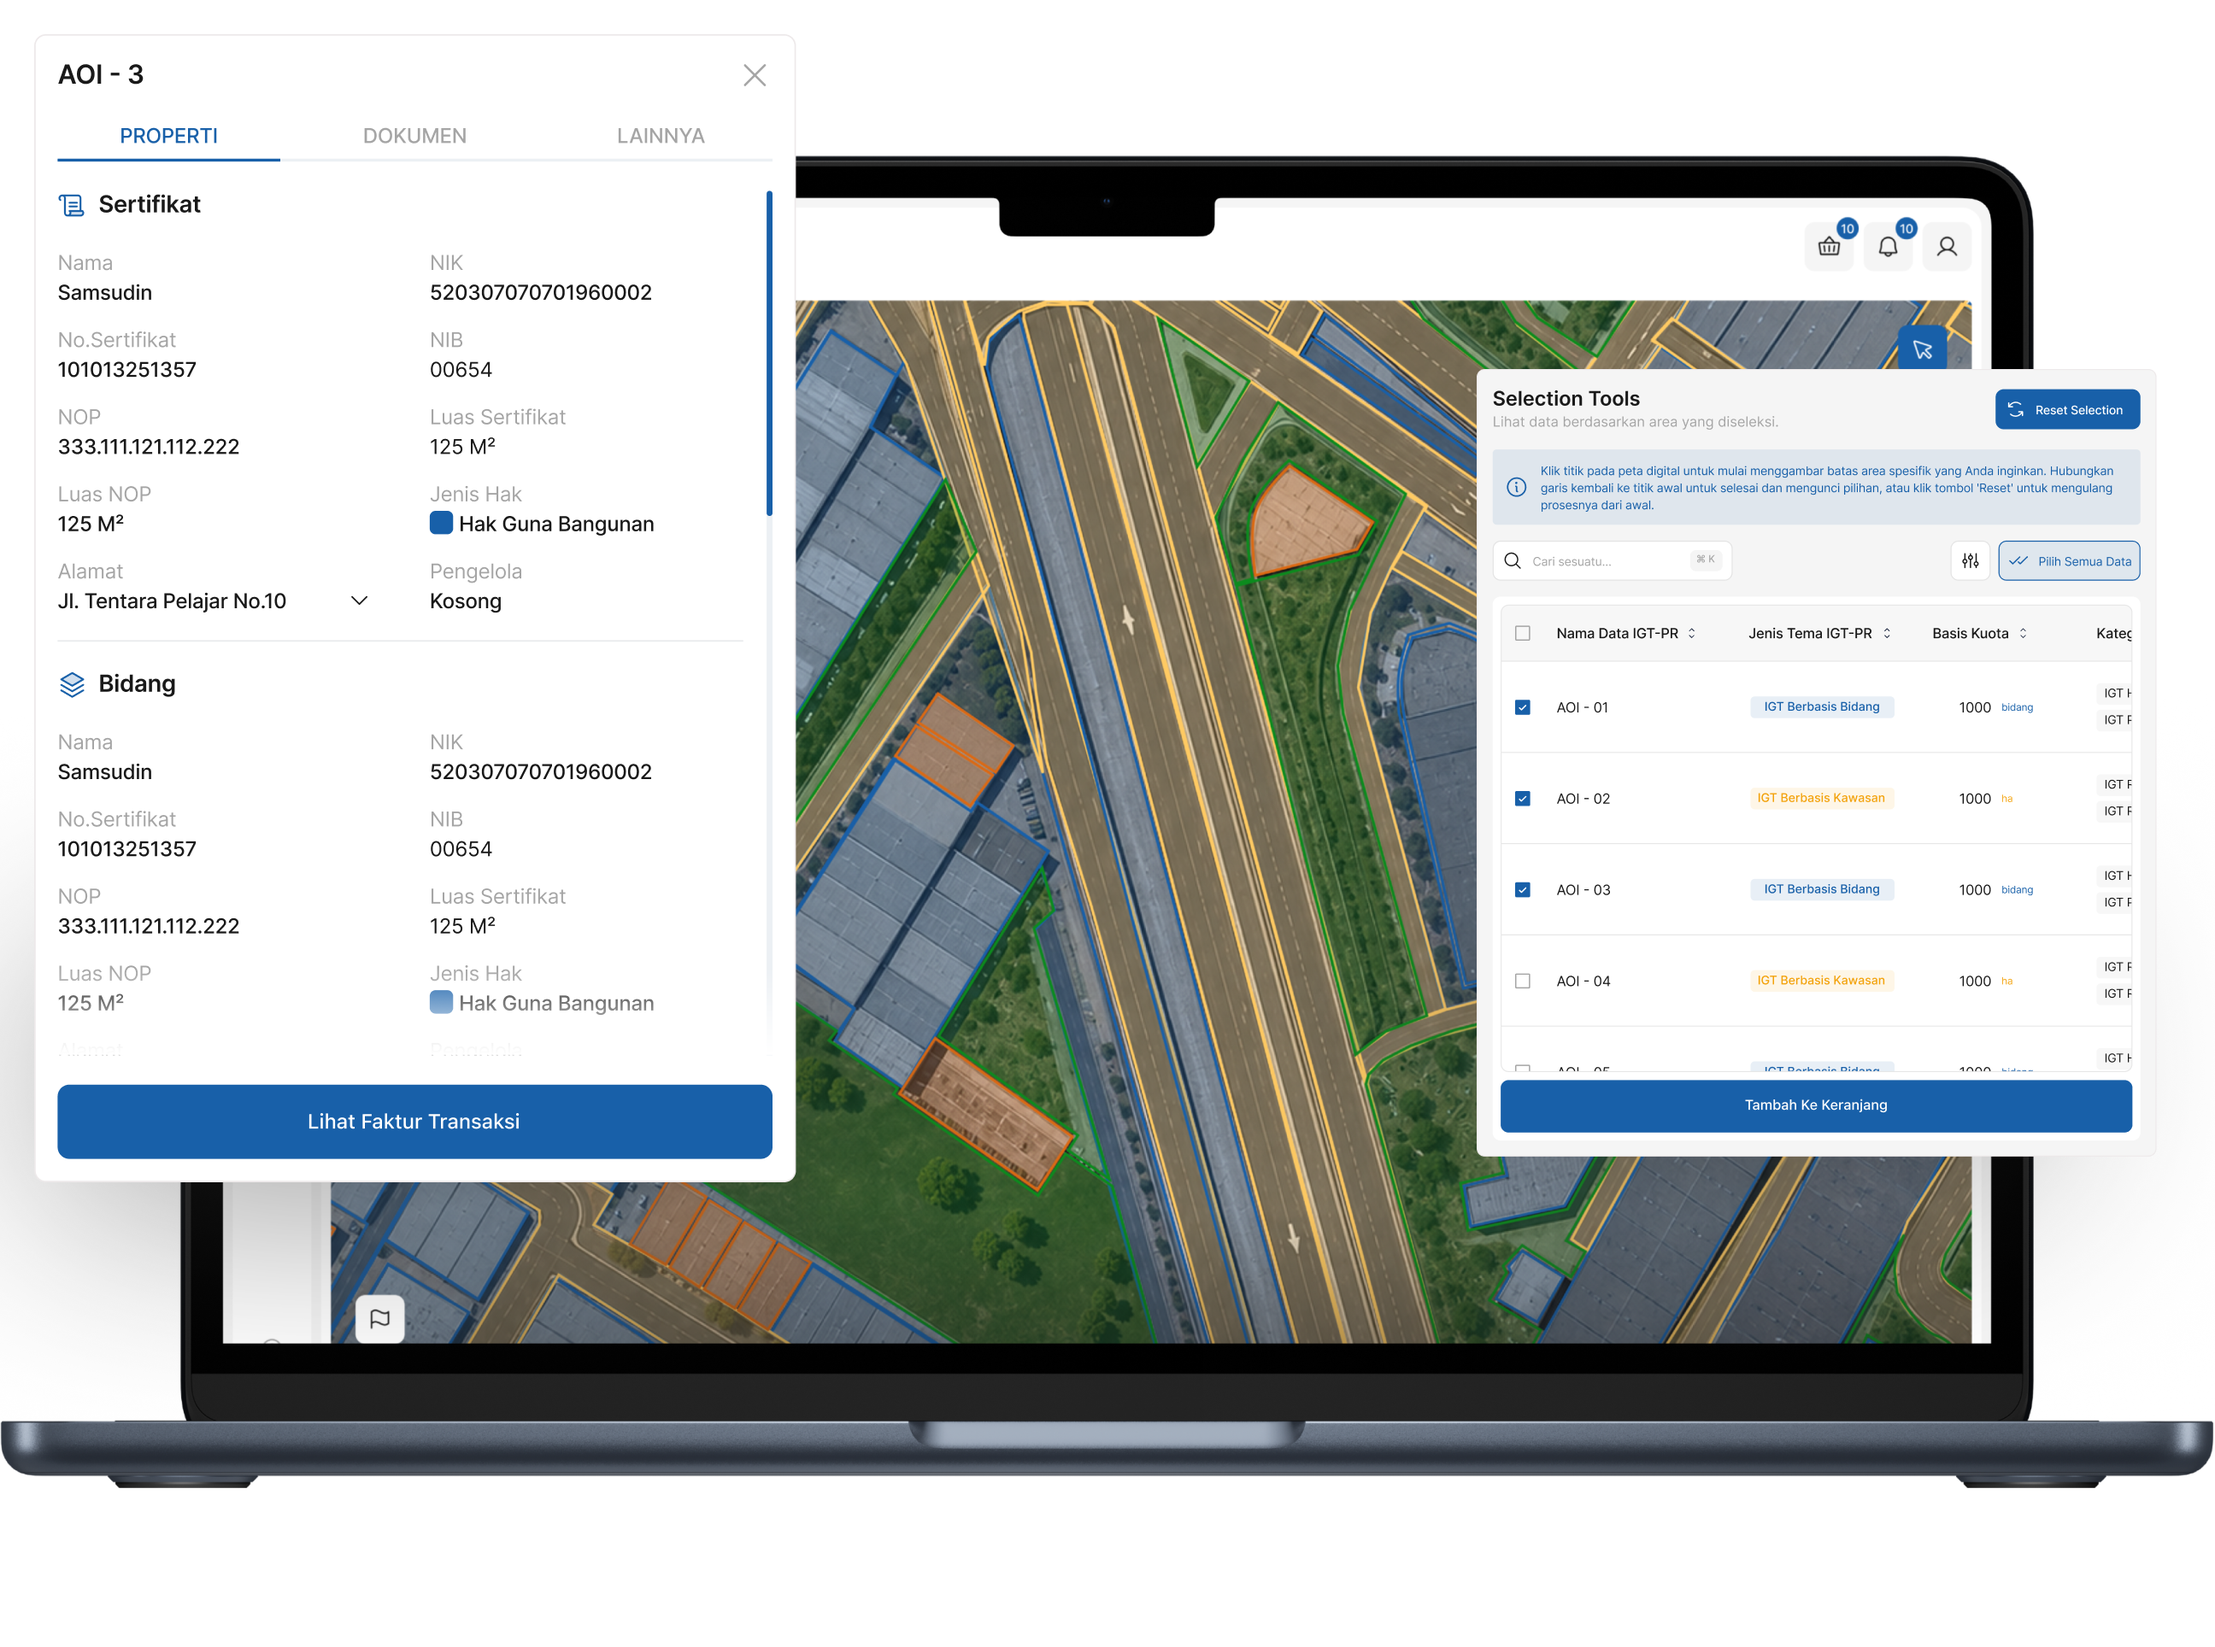
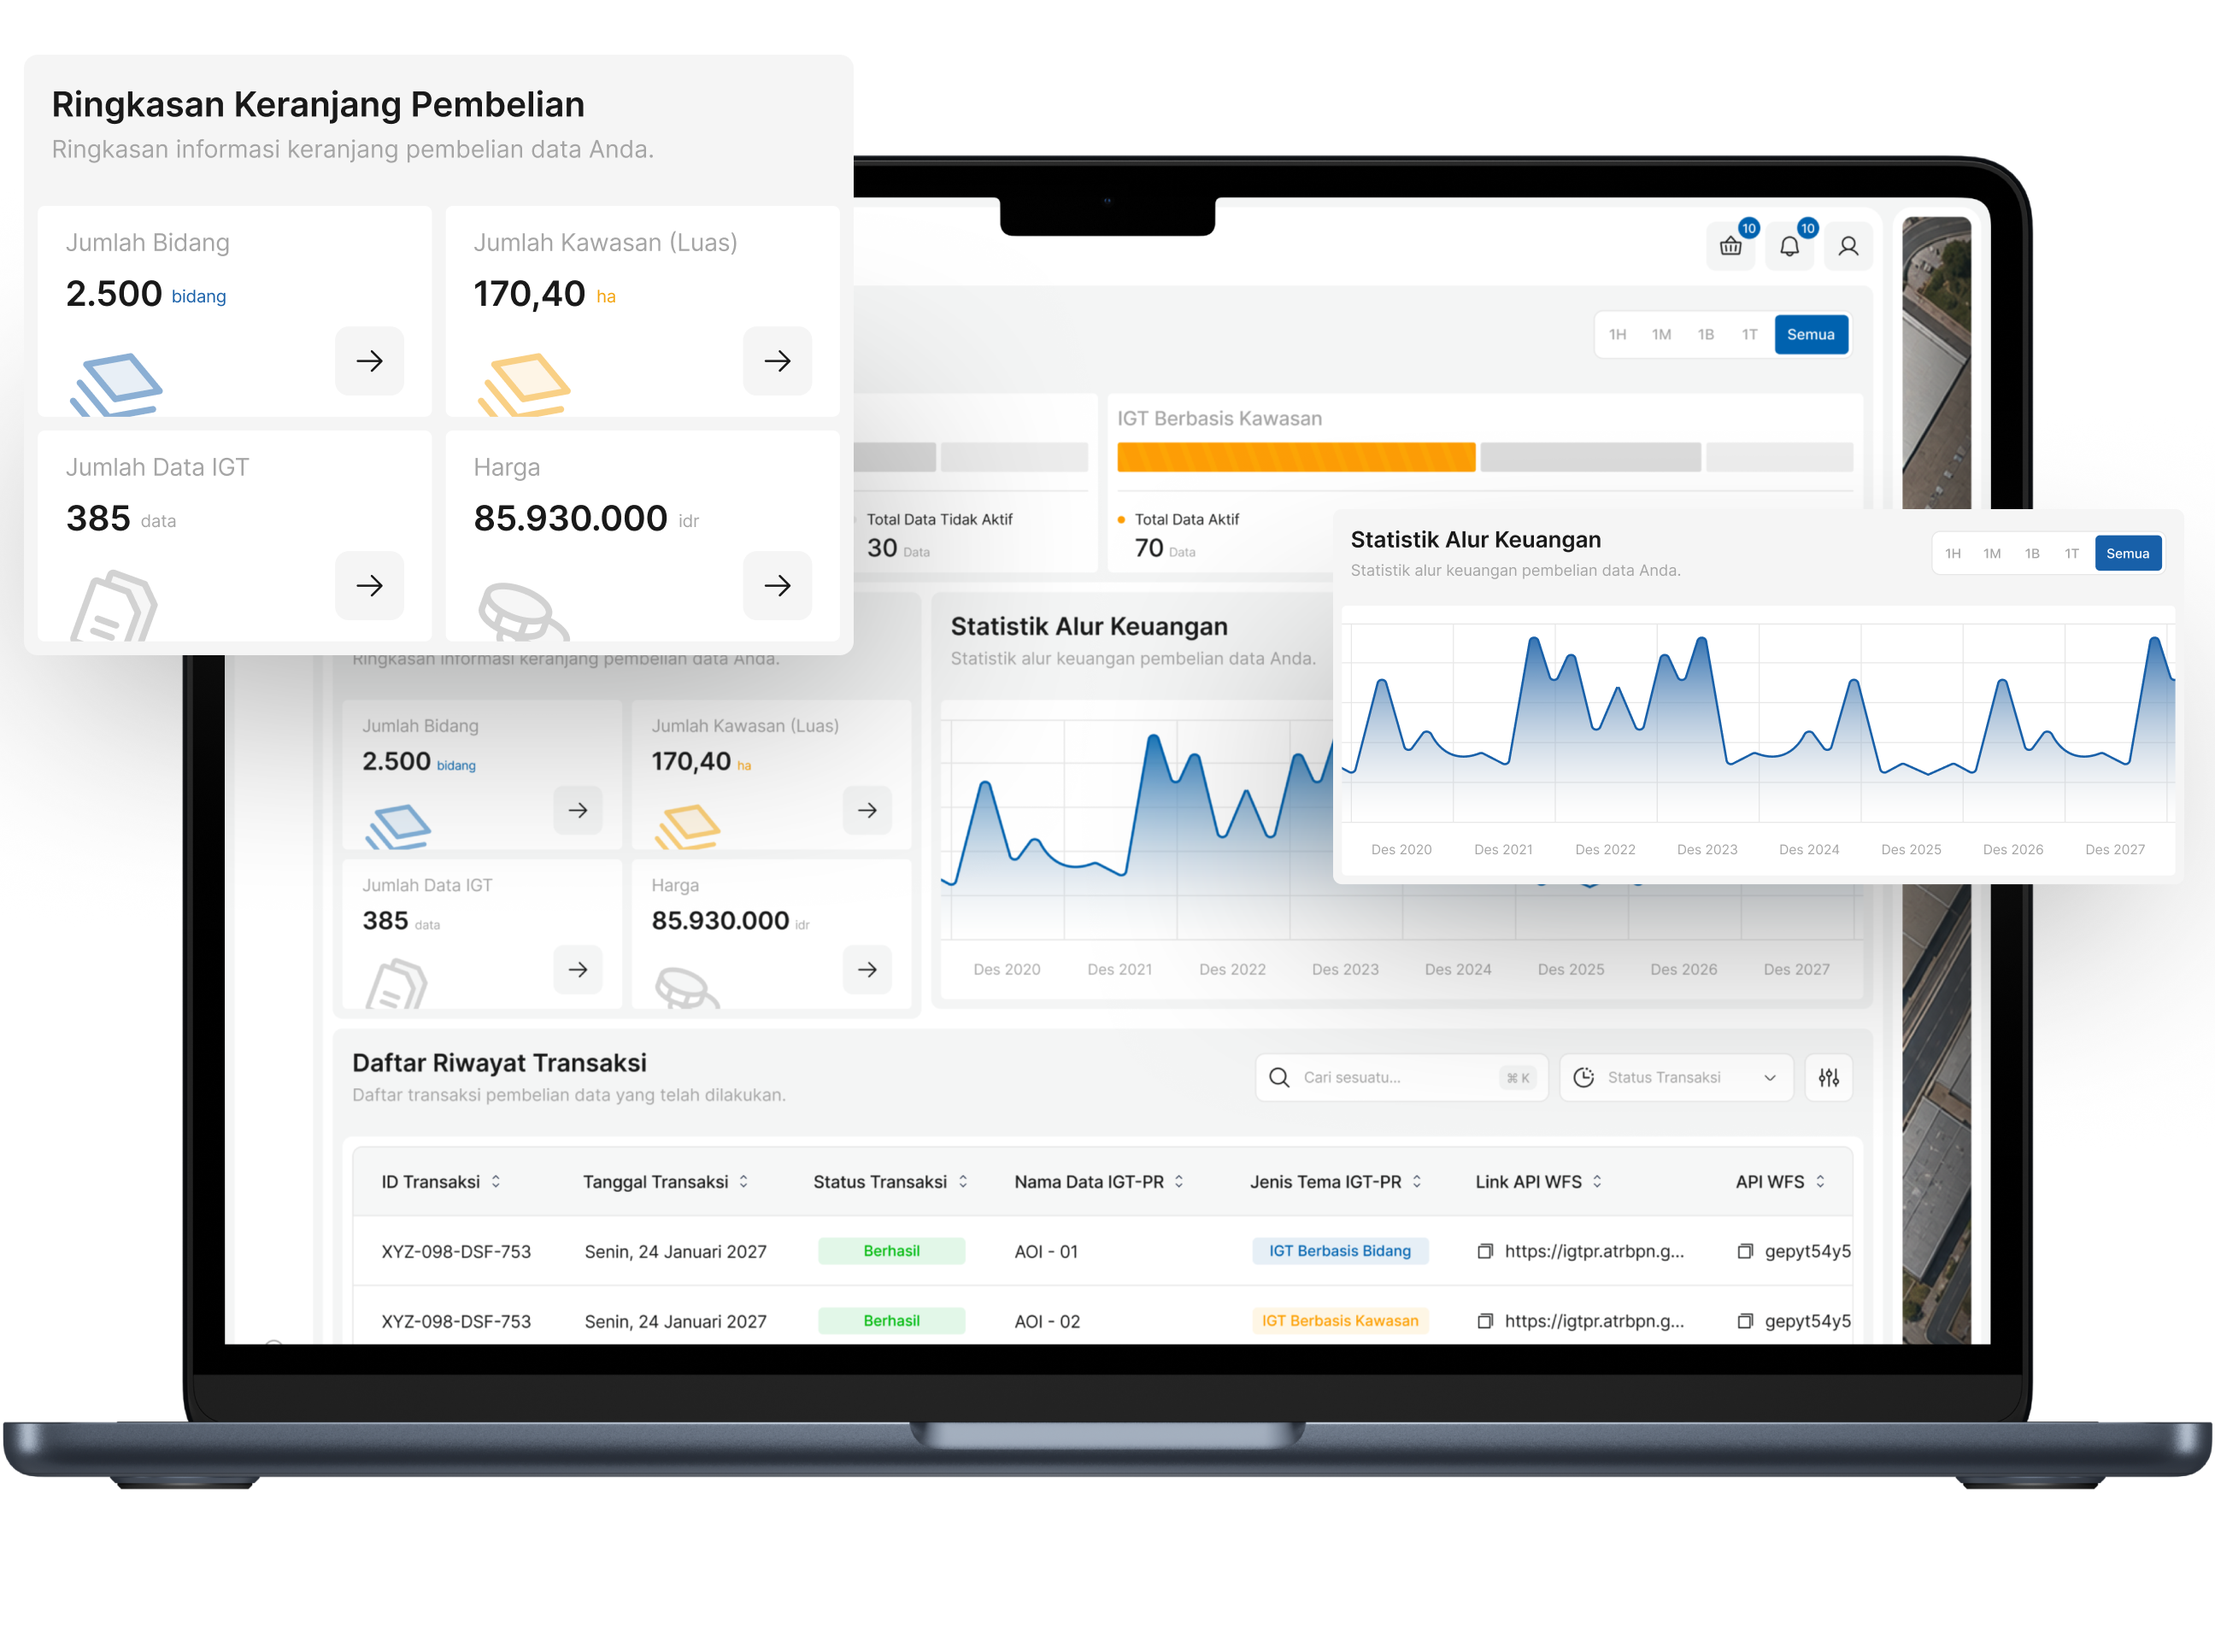
feat: replace static feature item with fully functional carousel component

diff --git a/src/features/branding/components/ui/features-carousel.tsx b/src/features/branding/components/ui/features-carousel.tsx
@@ -3,19 +3,43 @@
 "use client";
 
 import { IgtLogo } from "@/design-system/components/branding/ui/igt-logo";
-import { VStack } from "@/design-system/components/layout/ui/flex-box";
+import { Carousel } from "@/design-system/components/disclosure/ui/carousel";
+import { AppIcon } from "@/design-system/components/icon/ui/app-icon";
+import { Box } from "@/design-system/components/layout/ui/box";
+import { HStack, VStack } from "@/design-system/components/layout/ui/flex-box";
 import { Image } from "@/design-system/components/media/ui/image";
 import { P } from "@/design-system/components/typography/ui/p";
 import { useThemeStore } from "@/design-system/stores/theme-store";
 import type { FeaturesCarouselProps } from "@/features/branding/types/branding.type";
 import { PATH_CONFIG } from "@/shared/constants/paths";
+import { ArrowLeftIcon, ArrowRightIcon } from "lucide-react";
 
-const FEATURE_ITEM = {
-  image: `${PATH_CONFIG.images}/signin_carousel/1.png`,
-  title: "Layanan Jasa Akses IGT",
-  description:
-    "Layanan Jasa Akses IGT merupakan layanan penyediaan akses terhadap Informasi Geospasial Tematik (IGT) Pertanahan dan Ruang secara digital melalui mekanisme integrasi sistem berupa Web Map Service (WMS) kepada Pelaksana Kerja Sama dengan melakukan pengayaan data dengan mengintegrasikan IGT untuk menghasilkan informasi geospasial baru sesuai dengan kebutuhan pemanfaatan dan ketentuan yang berlaku.",
-};
+const CAROUSEL_ITEMS_LIST = [
+  {
+    image: `${PATH_CONFIG.images}/signin_carousel/1.png`,
+    title: "Layanan Jasa Akses IGT",
+    description:
+      "Layanan Jasa Akses IGT merupakan layanan penyediaan akses terhadap Informasi Geospasial Tematik (IGT) Pertanahan dan Ruang secara digital melalui mekanisme integrasi sistem berupa Web Map Service (WMS) kepada Pelaksana Kerja Sama dengan melakukan pengayaan data dengan mengintegrasikan IGT untuk menghasilkan informasi geospasial baru sesuai dengan kebutuhan pemanfaatan dan ketentuan yang berlaku.",
+  },
+  {
+    image: `${PATH_CONFIG.images}/signin_carousel/2.png`,
+    title: "Beranda Pengguna",
+    description:
+      "Dashboard yang menyajikan ringkasan status data IGT, informasi keranjang pembelian, statistik alur keuangan, dan riwayat transaksi dalam satu tampilan terintegrasi untuk memudahkan pemantauan aktivitas pengguna.",
+  },
+  {
+    image: `${PATH_CONFIG.images}/signin_carousel/3.png`,
+    title: "Peta Interaktif",
+    description:
+      "Peta Interaktif memungkinkan pengguna menyeleksi data IGT-PR berdasarkan area pada peta dan menambahkan data terpilih ke keranjang pembelian.",
+  },
+  {
+    image: `${PATH_CONFIG.images}/signin_carousel/4.png`,
+    title: "Tiket Laporan",
+    description:
+      "Tiket Laporan memudahkan pengguna untuk mengirim laporan, melampirkan dokumen pendukung, serta memantau proses penanganan dan tanggapan dari administrator dalam satu platform terintegrasi.",
+  },
+];
 
 export const FeaturesCarousel = (props: FeaturesCarouselProps) => {
   // Props
@@ -31,43 +55,105 @@ export const FeaturesCarousel = (props: FeaturesCarouselProps) => {
       bg={`${theme.colorPalette}.solid`}
       {...restProps}
     >
-      <VStack
-        pos={"relative"}
-        w={"full"}
+      <Carousel.Root
+        defaultPage={0}
+        loop
+        autoplay={{
+          delay: 6000,
+        }}
+        slideCount={CAROUSEL_ITEMS_LIST.length}
         flex={1}
-        rounded={theme.radii.container}
-        bg={"whiteAlpha.200"}
         gap={4}
-        p={[4, null, 6]}
-        color={"white"}
-        overflow={"clip"}
+        pos={"relative"}
       >
-        <IgtLogo
-          pos={"absolute"}
-          top={"-50px"}
-          right={"-50px"}
-          boxSize={"300px"}
-          opacity={0.1}
-          filter={"brightness(0) invert(1)"}
-        />
+        <Carousel.Control flex={1} gap={[4, null, 6]}>
+          <Carousel.ItemGroup
+            w={"full"}
+            flex={1}
+            rounded={theme.radii.container}
+            bg={"whiteAlpha.200"}
+          >
+            {CAROUSEL_ITEMS_LIST.map((carousel, index) => (
+              <Carousel.Item
+                key={index}
+                index={index}
+                flex={1}
+                gap={4}
+                p={[4, null, 6]}
+                color={"white"}
+                pos={"relative"}
+                overflow={"clip"}
+              >
+                <IgtLogo
+                  pos={"absolute"}
+                  top={"-50px"}
+                  right={"-50px"}
+                  boxSize={"300px"}
+                  opacity={0.1}
+                  filter={"brightness(0) invert(1)"}
+                  pointerEvents={"none"}
+                />
 
-        <Image
-          src={FEATURE_ITEM.image}
-          alt={"Image 1"}
-          objectFit={"contain"}
-          w={"full"}
-          my={"auto"}
-          aspectRatio={16 / 10}
-        />
+                <P fontSize={"xl"} fontWeight={"semibold"} textAlign={"center"}>
+                  {carousel.title}
+                </P>
 
-        <VStack gap={"sm"}>
-          <P fontSize={"xl"} fontWeight={"semibold"}>
-            {FEATURE_ITEM.title}
-          </P>
+                <Image
+                  src={carousel.image}
+                  alt={`Image ${index + 1}`}
+                  objectFit={"contain"}
+                  w={"full"}
+                  mt={4}
+                  aspectRatio={16 / 10}
+                />
 
-          <P mt={"auto"}>{FEATURE_ITEM.description}</P>
-        </VStack>
-      </VStack>
+                <P textAlign={"center"} mt={"auto"}>
+                  {carousel.description}
+                </P>
+              </Carousel.Item>
+            ))}
+          </Carousel.ItemGroup>
+
+          <HStack align={"center"} gap={4} w={"full"}>
+            <Carousel.PrevTrigger asChild>
+              <Carousel.ActionButton
+                color={"white"}
+                borderColor={"white"}
+                _hover={{
+                  bg: "an1",
+                }}
+              >
+                <AppIcon icon={ArrowLeftIcon} />
+              </Carousel.ActionButton>
+            </Carousel.PrevTrigger>
+
+            <Box w={"full"}>
+              <Carousel.Indicators
+                bg={"bodyLight"}
+                boxSize={1.5}
+                transition={"200ms"}
+                transformOrigin={"center"}
+                w={"full"}
+                _current={{
+                  opacity: 1,
+                }}
+              />
+            </Box>
+
+            <Carousel.NextTrigger asChild>
+              <Carousel.ActionButton
+                color={"white"}
+                borderColor={"white"}
+                _hover={{
+                  bg: "an1",
+                }}
+              >
+                <AppIcon icon={ArrowRightIcon} />
+              </Carousel.ActionButton>
+            </Carousel.NextTrigger>
+          </HStack>
+        </Carousel.Control>
+      </Carousel.Root>
     </VStack>
   );
 };
